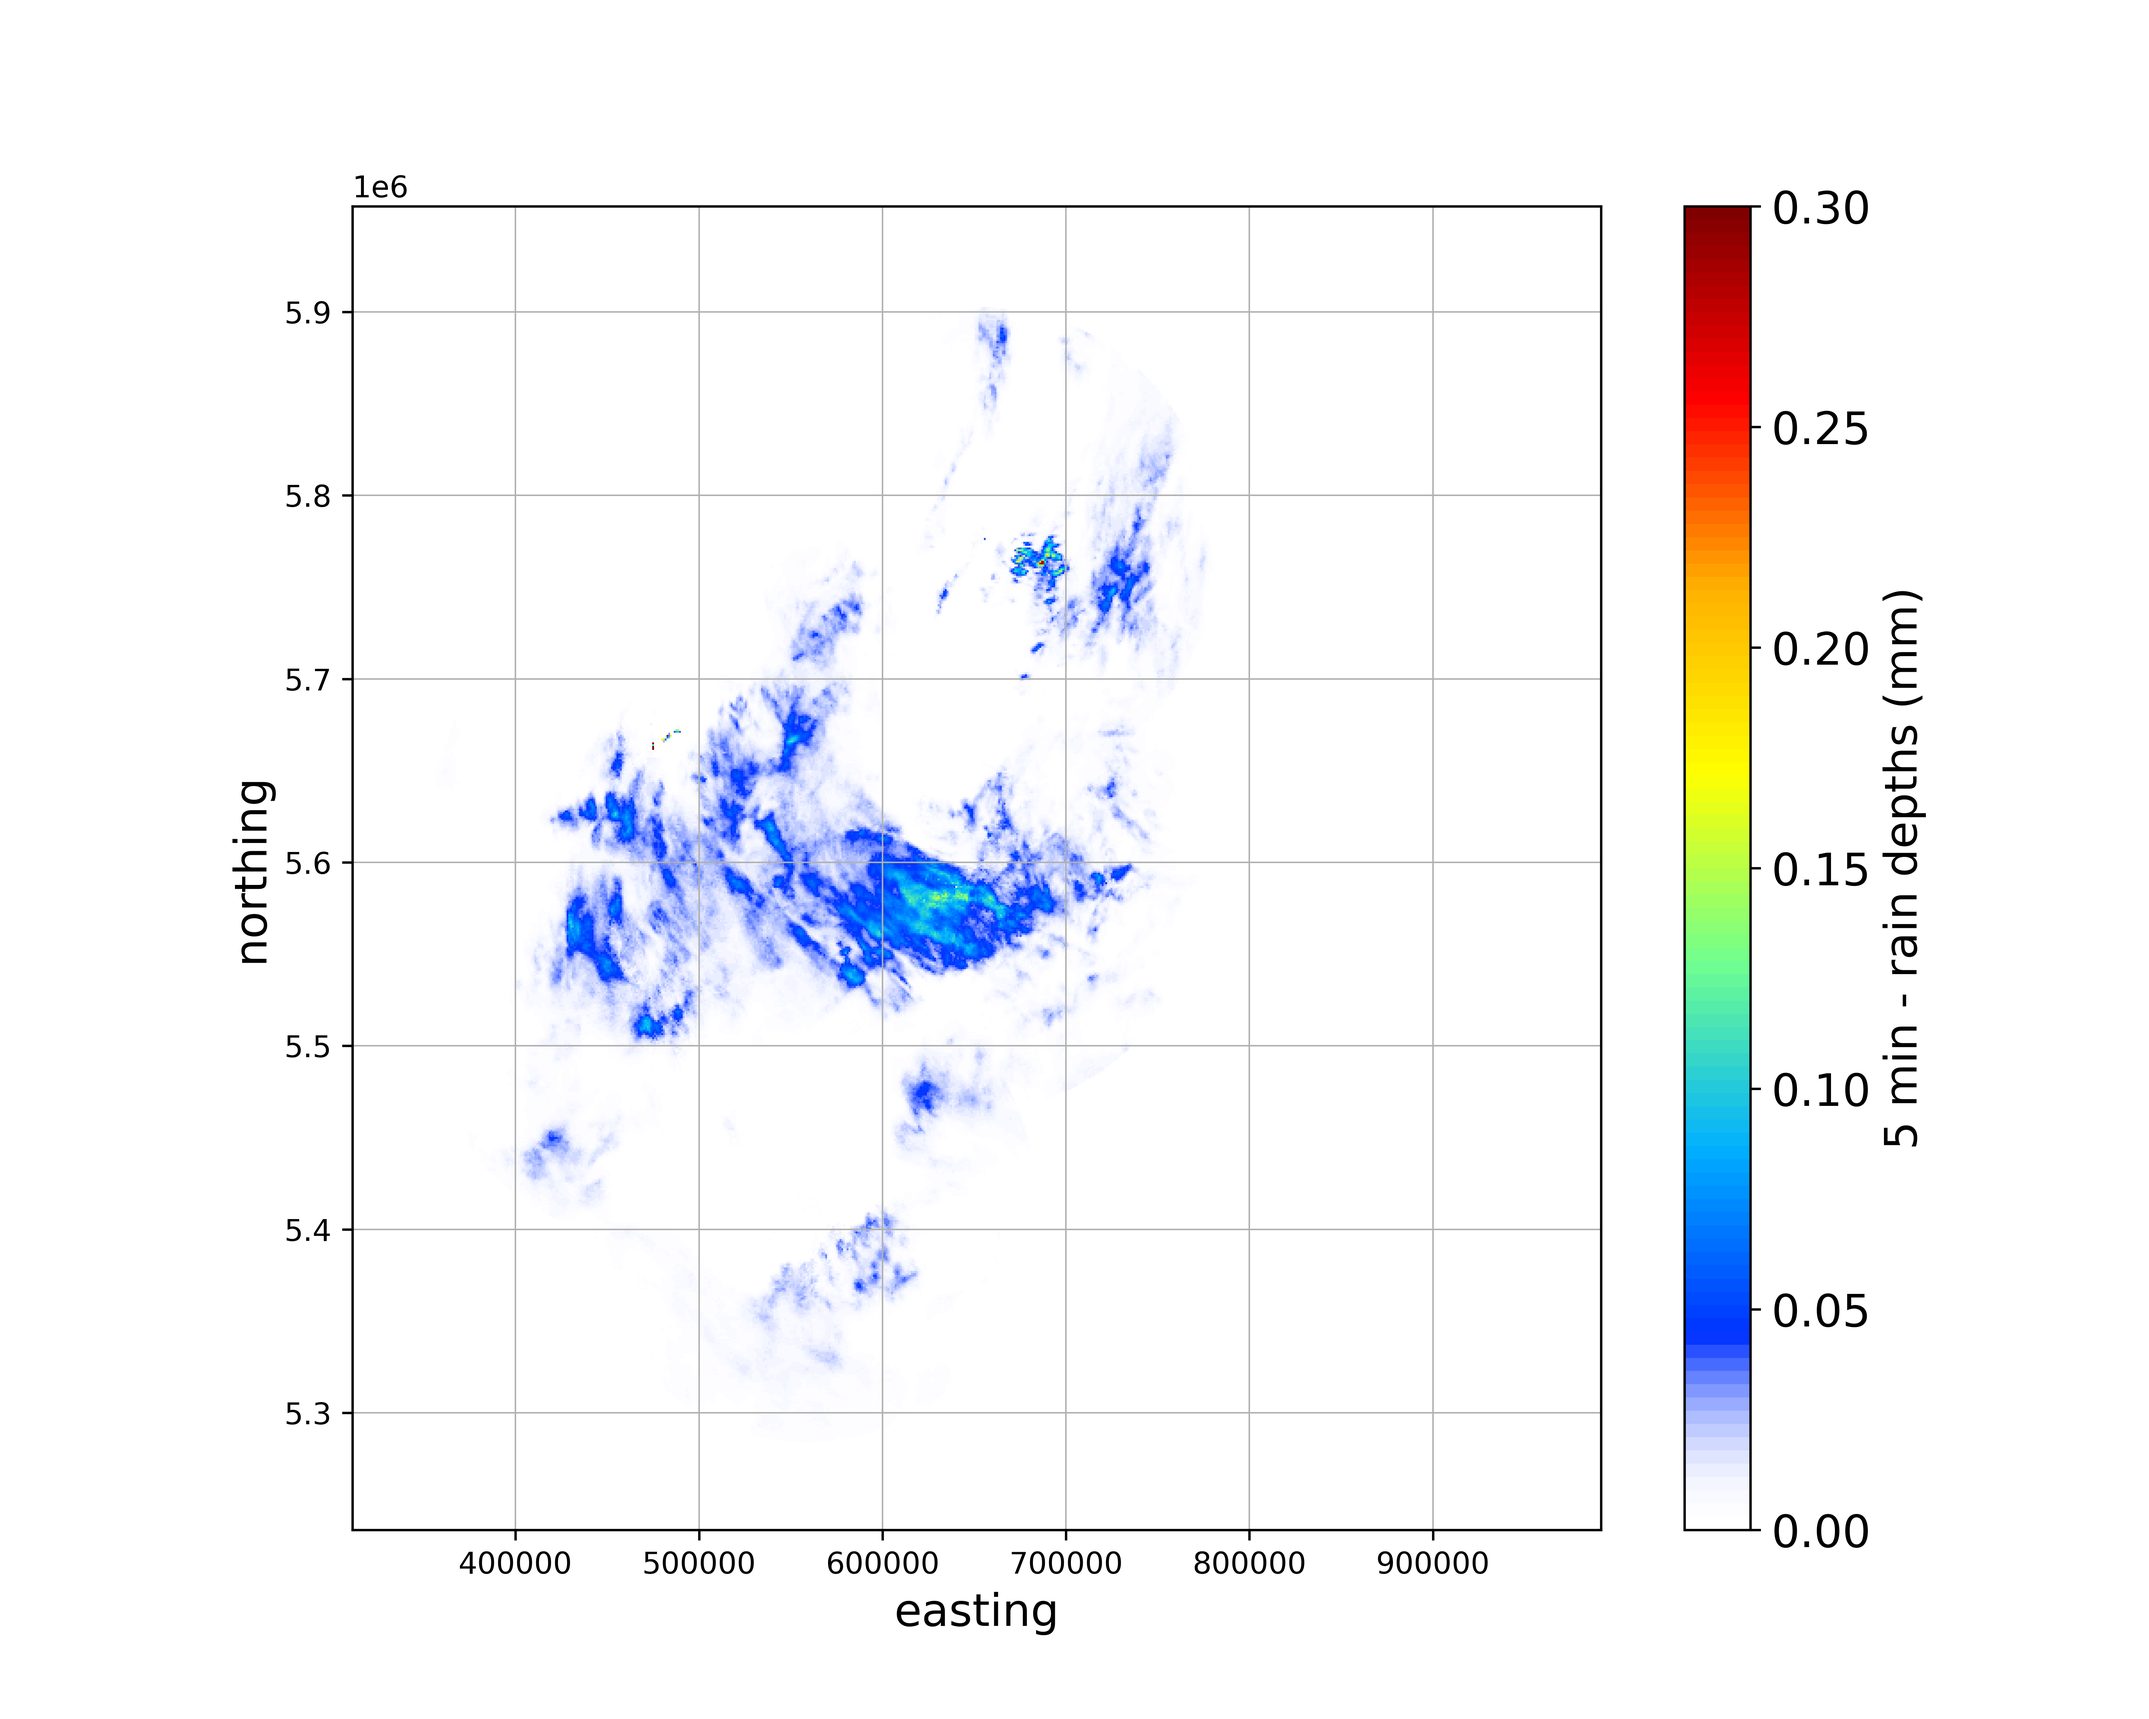
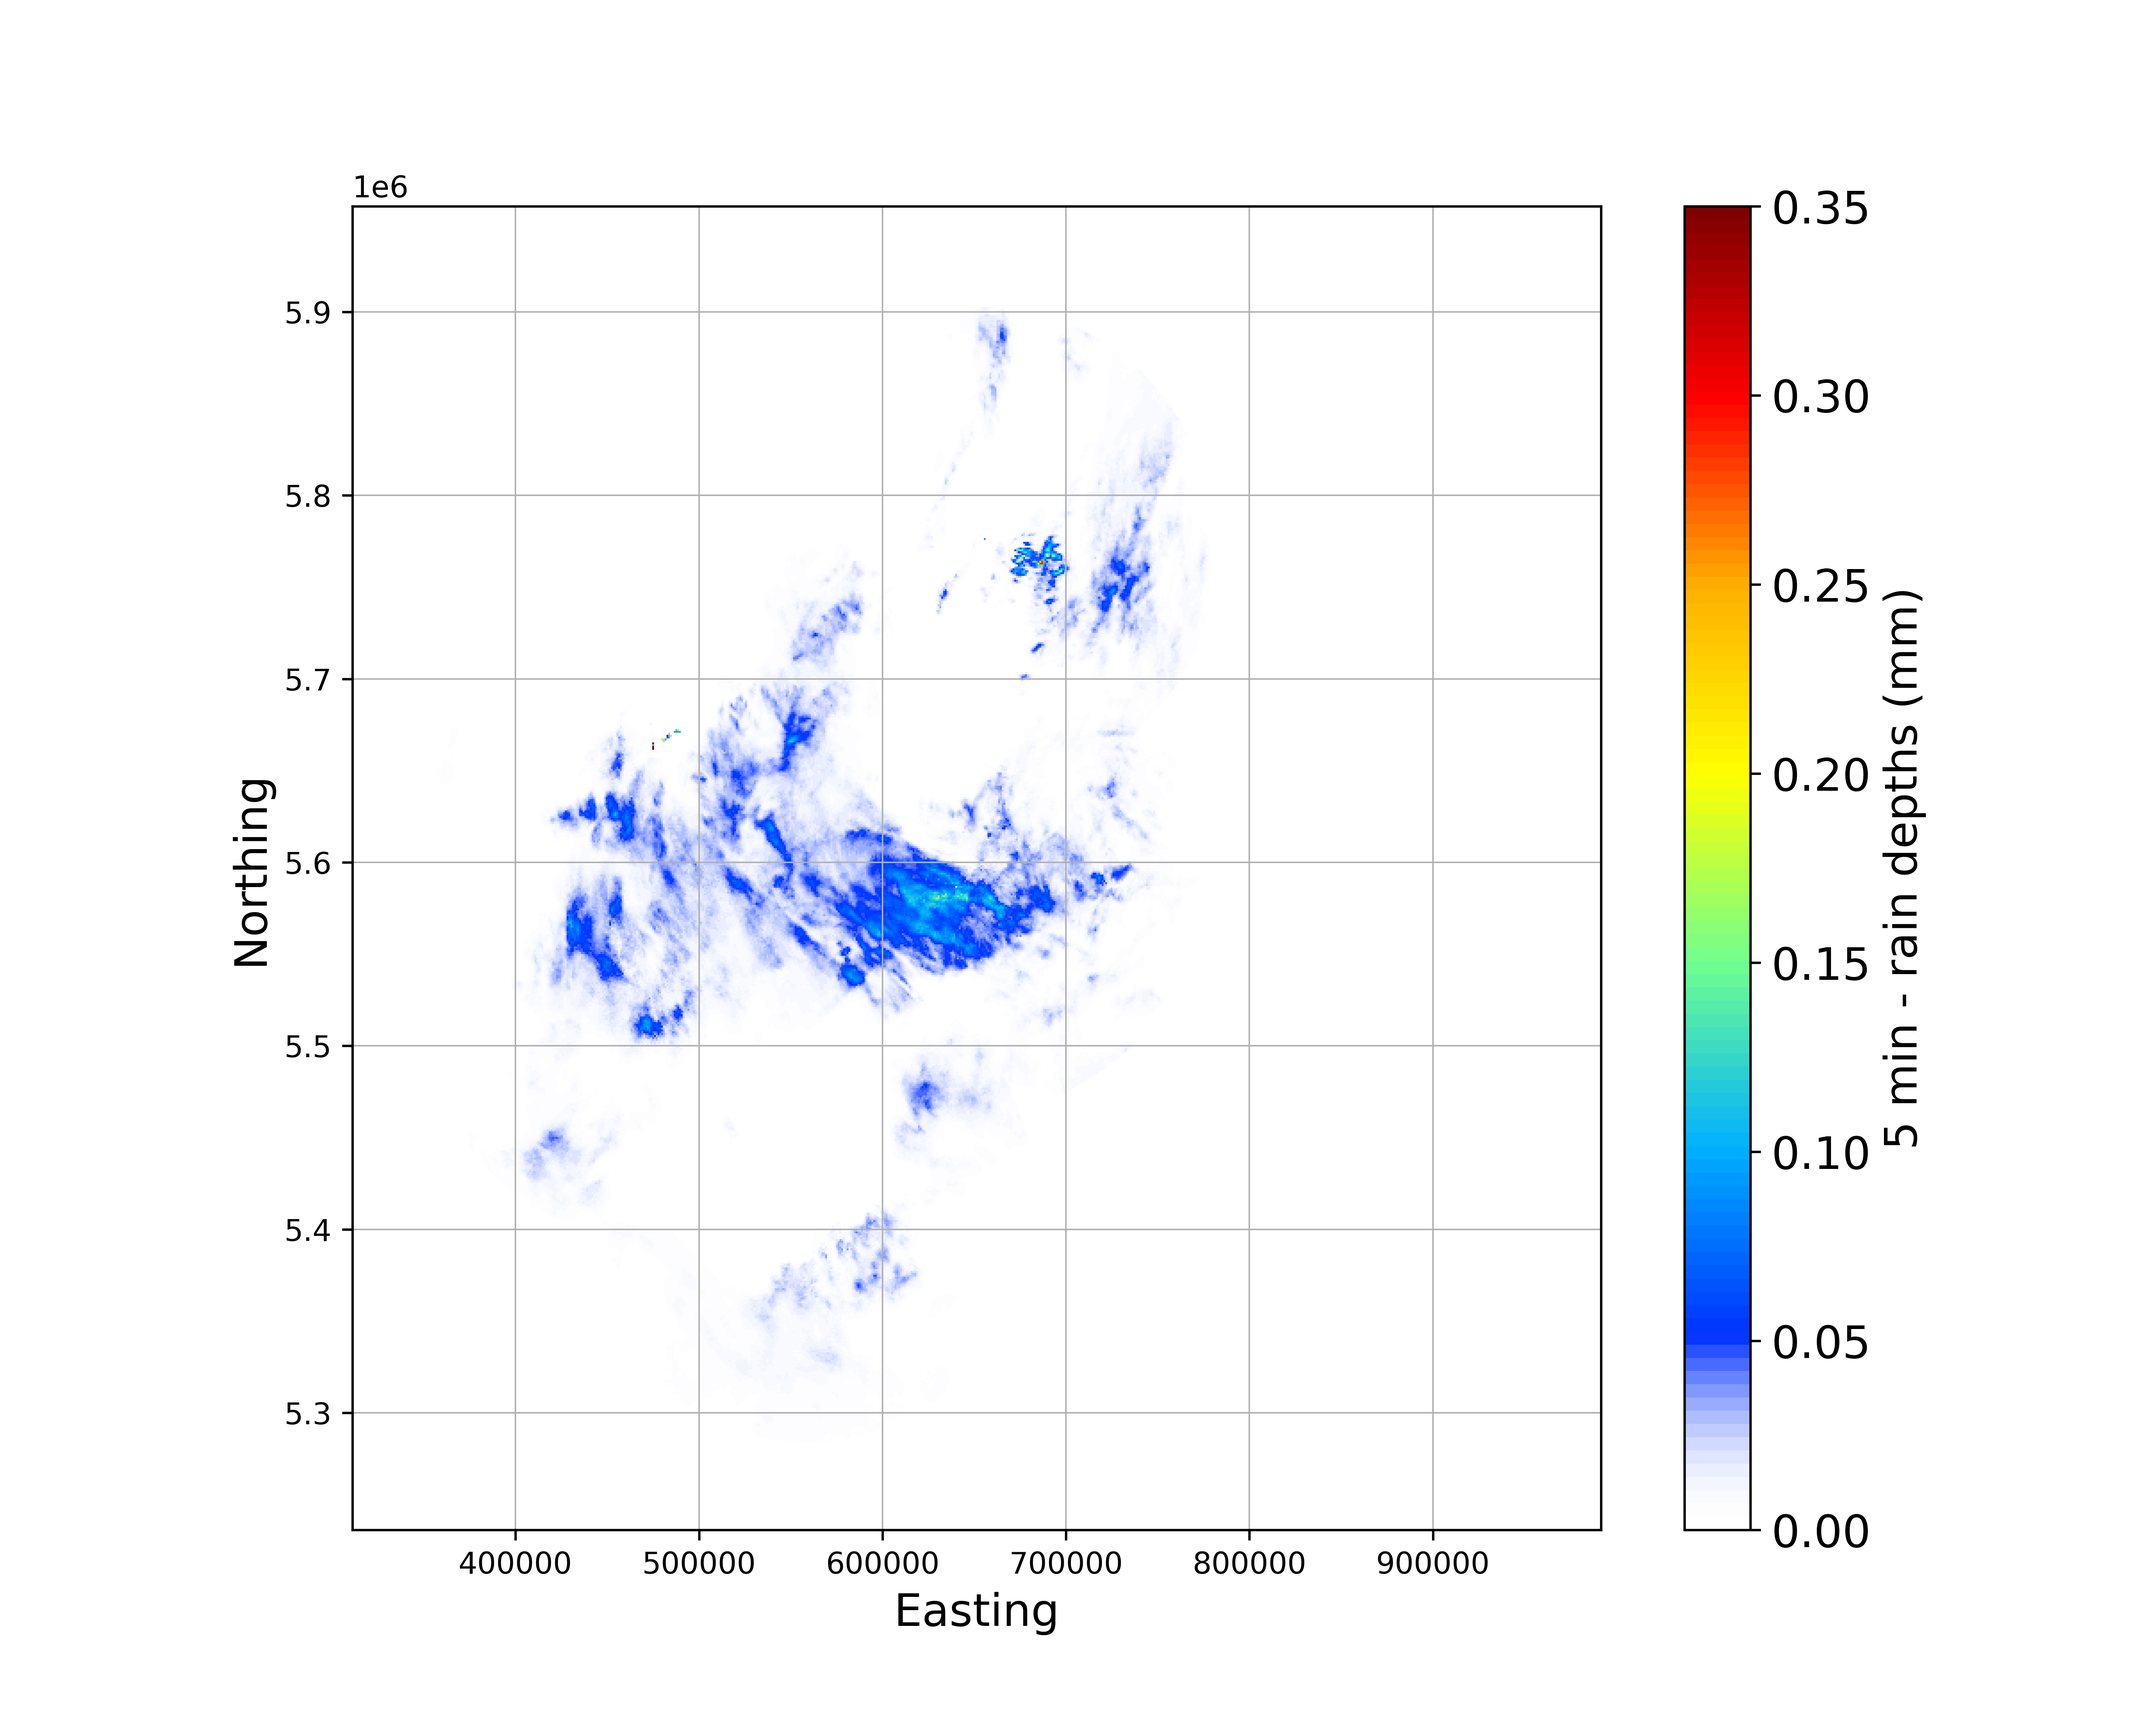
Refactoring.

diff --git a/code/example_1901091200.py b/code/example_1901091200.py
@@ -1,68 +1,77 @@
+import imp
 import sys
 import numpy as np
 import wradlib as wrl
+import matplotlib.pylab as pl
 
-from func import plot_radar, plot_raindepths, plot_gridded, clutter_gabella, attcorr, plot_attenuation_mean_bin, plot_attenuation_per_bin, rain_depths
+from colorbar import cm
+from func import plot_radar, plot_raindepths, plot_gridded, clutter_gabella, attcorr, plot_attenuation_mean_bin, plot_attenuation_per_bin, rain_depths, get_coords, get_depths, blending_radar_domains, blending_radar_domains
 
 
-# Configure filename, path, radar elevation and location
-filename = sys.argv[1]
-print(filename)
-radar_location = (float(sys.argv[2]), float(sys.argv[3]), int(sys.argv[4])) # lat, lon, height
-elevation = 0.8
+filename_drs = "raa00-dx_10488-1901091200-drs---bin"
+filename_pro = "raa00-dx_10392-1901091200-pro---bin"
+filename_umd = "raa00-dx_10356-1901091200-umd---bin"
+filename_neu = "raa00-dx_10557-1901091200-neu---bin"
+filename_eis = "raa00-dx_10780-1901091200-eis---bin"
 
-# Read data.
-f = wrl.util.get_wradlib_data_file('example_data/' + filename)
-data, md = wrl.io.read_dx(f)
+site_loc_drs = (13.769722, 51.125278, 263)
+site_loc_pro = (13.858212, 52.648667, 194)
+site_loc_umd = (11.176091, 52.160096, 185)
+site_loc_neu = (11.135034, 50.500114, 880)
+site_loc_eis = (12.402788, 49.540667, 799)
 
-# Plot raw data.
-plot_radar(data, filename, what="raw", subtitle="Raw data")
+# Calculate and plot rain depths in polar coordinates.
+depths_drs = get_depths(filename_drs)
+depths_pro = get_depths(filename_pro)
+depths_umd = get_depths(filename_umd)
+depths_neu = get_depths(filename_neu)
+depths_eis = get_depths(filename_eis)
 
-# Clutter correction.
-clmap, data_no_clutter = clutter_gabella(data, filename)
+# Project radar domains into global xyz domain.
+xgrid_drs, ygrid_drs, gridded_drs, rad = get_coords(depths_drs, site_loc_drs, np.array([0,0]))
+xgrid_eis, ygrid_eis, gridded_eis, rad = get_coords(depths_eis, site_loc_eis, np.array([-95000,-176000]))
+xgrid_pro, ygrid_pro, gridded_pro, rad = get_coords(depths_pro, site_loc_pro, np.array([6000,169000]))
+xgrid_umd, ygrid_umd, gridded_umd, rad = get_coords(depths_umd, site_loc_umd, np.array([-181000,69000]))
+xgrid_neu, ygrid_neu, gridded_neu, rad = get_coords(depths_neu, site_loc_neu, np.array([-184000,-69000]))
 
-# Attenuation correction.
-att, data_attcorr = attcorr(data_no_clutter, filename)
-plot_attenuation_per_bin(data_no_clutter, data_attcorr, filename, bin=0)
-plot_attenuation_per_bin(data_no_clutter, data_attcorr, filename, bin=90)
-plot_attenuation_per_bin(data_no_clutter, data_attcorr, filename, bin=180)
-plot_attenuation_per_bin(data_no_clutter, data_attcorr, filename, bin=270)
-plot_attenuation_mean_bin(data_no_clutter, data_attcorr, filename)
+# Plot single radar fields in UTM Zone 33N.
+plot_gridded(xgrid_drs, ygrid_drs, gridded_drs, filename_drs, "UTM Zone 33N (EPSG 25832)", proj_src=rad, proj_trg_epsgno=25832)
+plot_gridded(xgrid_eis, ygrid_eis, gridded_eis, filename_eis, "UTM Zone 33N (EPSG 25832)", proj_src=rad, proj_trg_epsgno=25832)
+plot_gridded(xgrid_pro, ygrid_pro, gridded_pro, filename_pro, "UTM Zone 33N (EPSG 25832)", proj_src=rad, proj_trg_epsgno=25832)
+plot_gridded(xgrid_umd, ygrid_umd, gridded_umd, filename_umd, "UTM Zone 33N (EPSG 25832)", proj_src=rad, proj_trg_epsgno=25832)
+plot_gridded(xgrid_neu, ygrid_neu, gridded_neu, filename_neu, "UTM Zone 33N (EPSG 25832)", proj_src=rad, proj_trg_epsgno=25832)
 
-# Calculate rain depths from reflectivity.
-depths = rain_depths(data=data_attcorr, filename=filename, duration_sec=300)
 
-# Create cartesian grid and reproject into UTM Zone 33 (EPSG-number 32633)
-ranges = np.arange(0, 128000., 1000.) # in meters
-azimuths = np.arange(0,360) # in degrees
-polargrid = np.meshgrid(ranges, azimuths)
-coords, rad = wrl.georef.polar.spherical_to_xyz(polargrid[0], polargrid[1], elevation, radar_location) # range, azimut, elevation, radar location, coords: (1,360,128,3)-array
-utm = wrl.georef.epsg_to_osr(32633)
-utm_coords = wrl.georef.reproject(coords, projection_source=rad, projection_target=utm)
-x = utm_coords[..., 0]
-y = utm_coords[..., 1]
-z = utm_coords[..., 2]
+# Blending domains. Take maximum value of two cutting domains.
+d2 = blending_radar_domains(np.zeros((700, 700)), gridded_drs)
+d3 = blending_radar_domains(d2, gridded_eis)
+d4 = blending_radar_domains(d3, gridded_pro)
+d5 = blending_radar_domains(d4, gridded_umd)
+domain_final = blending_radar_domains(d5, gridded_neu)
 
-# Create cartesian coordinates of the composite (UTM).
-xgrid = np.linspace(x.min(), x.max(), 250) # first two arguments: area of interest, third argument: resolution
-ygrid = np.linspace(y.min(), y.max(), 250)
-grid_xy = np.meshgrid(xgrid, ygrid) # 2 lists of 100 lists
-grid_xy = np.vstack((grid_xy[0].ravel(), grid_xy[1].ravel())).transpose() # (1000,2) - array -> [lat, lon] for each cell
+# Georeferencing
+xgrid, ygrid = wrl.georef.reproject(xgrid_drs, ygrid_drs, projection_source=rad, 
+                                            projection_target = wrl.georef.epsg_to_osr(25832)) # UTM Zone 33N: 25832, WGS: 4326
 
-# Save UTM grid coordinates in txt-file.
-np.savetxt("code/grid_xy.txt", grid_xy, fmt = "%.4f,%.4f")
-    
-# Create cartesian coordinates of the radar bins.
-xy=np.concatenate([x.ravel()[:,None],y.ravel()[:,None]], axis=1)
 
-# Interpolate data to composite grid.
-gridded = wrl.comp.togrid(src=xy, trg=grid_xy, 
-                          radius=128000., center=np.array([x.mean(), y.mean()]), 
-                          data=depths.ravel(), interpol=wrl.ipol.Idw) # Nearest or Idw
-gridded = np.ma.masked_invalid(gridded).reshape((len(xgrid), len(ygrid)))
+# Save grid information to files.
+np.savetxt("code/xgrid.txt", xgrid, fmt = "%.4f")
+np.savetxt("code/ygrid.txt", ygrid, fmt = "%.4f")
+np.savetxt("code/domain_final.txt", domain_final, fmt = "%.4f")
+np.savetxt("code/utmgrid.txt", np.column_stack((xgrid, ygrid)), fmt = "%.4f")
 
-# Plot gridded radar field.
-plot_gridded(xgrid, ygrid, gridded, filename, subtitle="Gridded to UTM Zone 33 (EPSG 32633)")
+# Plotting
+fig = pl.figure(figsize=(10,8))
+ax = pl.subplot(111, aspect="equal")
+pl.pcolormesh(xgrid, ygrid, domain_final, cmap=cm, vmax=0.35)
+cbar = pl.colorbar()
+cbar.ax.tick_params(labelsize=15) 
+cbar.set_label("5 min - rain depths (mm)", fontsize=15)
+pl.grid(lw=0.5)
+pl.xlabel("Easting", fontsize=15)
+pl.ylabel("Northing", fontsize=15)
+pl.savefig(f"images/composite_{filename_drs[15:25]}_utm", dpi=600)
+
 
 
 # Read gauge metadata.

diff --git a/code/func.py b/code/func.py
@@ -119,10 +119,11 @@ def rain_depths(data, filename, duration_sec=300):
     return depths
 
 
-def plot_gridded(xgrid, ygrid, gridded, filename, subtitle):
+def plot_gridded(xgrid, ygrid, gridded, filename, subtitle, proj_src, proj_trg_epsgno = 25832):
+    xgrid, ygrid = wrl.georef.reproject(xgrid, ygrid, projection_source=proj_src, projection_target = wrl.georef.epsg_to_osr(proj_trg_epsgno))
     pl.figure(figsize=(10, 8))
     ax = pl.subplot(111, aspect="equal")
-    pm = pl.pcolormesh(xgrid, ygrid, gridded, cmap=cm)
+    pm = pl.pcolormesh(xgrid, ygrid, gridded, cmap=cm, vmax=0.35)
     cbar = pl.colorbar(pm, shrink=0.75)
     cbar.ax.tick_params(labelsize=15) 
     cbar.set_label("5 min - Rain depths (mm)", fontsize=15)
@@ -132,5 +133,58 @@ def plot_gridded(xgrid, ygrid, gridded, filename, subtitle):
     pl.ylabel("Northing (m)", fontsize=15)
     site_abb, site_text, dt = metadata(filename)
     pl.title(f'{dt.strftime("%d-%m-%Y %H:%M")} UTC\n{site_text}\n{subtitle}', fontsize=17)
-    pl.savefig(f"images/radar_dx_{site_abb}_{filename[15:25]}_grid_1km.png", dpi=600)    
+    pl.savefig(f"images/radar_dx_{site_abb}_{filename[15:25]}_grid_utm.png", dpi=600)    
+    print(filename, np.nanmax(gridded))
     return 0
+
+
+def get_depths(filename):
+    """ 
+    Read data from file. Correct clutter and attenuation. Calculate and return 5min - rain depths as (360   ,128) - array.
+    """
+    f = wrl.util.get_wradlib_data_file('example_data/'+filename)
+    data, metadata = wrl.io.read_dx(f)
+    plot_radar(data, filename, "Raw data", "raw")
+    clmap, data_no_clutter = clutter_gabella(data, filename)
+    att, data_attcorr = attcorr(data_no_clutter, filename)
+    plot_attenuation_per_bin(data_no_clutter, data_attcorr, filename, 0)
+    plot_attenuation_per_bin(data_no_clutter, data_attcorr, filename, 90)
+    plot_attenuation_per_bin(data_no_clutter, data_attcorr, filename, 180)
+    plot_attenuation_per_bin(data_no_clutter, data_attcorr, filename, 270)
+    plot_attenuation_mean_bin(data_no_clutter, data_attcorr, filename)
+    depths = rain_depths(data_attcorr, filename, 300)
+    plot_raindepths(depths, filename)    
+    return depths
+
+
+def get_coords(depths, radar_loc, centerxy):
+    # Get cartesian coordinates in xyz-space.
+    elevation = 0.5 # in degree
+    azimuths = np.arange(0,360)
+    ranges = np.arange(0, 128000., 1000.)
+    polargrid = np.meshgrid(ranges, azimuths)
+    coords, rad = wrl.georef.spherical_to_xyz(polargrid[0], polargrid[1], elevation, radar_loc)
+    x = coords[..., 0]
+    y = coords[..., 1]
+    x = x + centerxy[0]
+    y = y + centerxy[1]
+    
+    # Gridding -> 2D array
+    xgrid = np.linspace(-350000,350000,700)
+    ygrid = np.linspace(-350000,350000,700)
+    grid_xy = np.meshgrid(xgrid, ygrid)
+    grid_xy = np.vstack((grid_xy[0].ravel(), grid_xy[1].ravel())).transpose()
+    xy=np.concatenate([x.ravel()[:,None],y.ravel()[:,None]], axis=1)
+    gridded = wrl.comp.togrid(src=xy, trg=grid_xy, 
+                              radius=128000., 
+                              center = centerxy,
+                              data=depths.ravel(), interpol=wrl.ipol.Idw)
+
+    # gridded = np.ma.masked_invalid(gridded).reshape((len(xgrid), len(ygrid)))
+    gridded = gridded.reshape((len(xgrid), len(ygrid)))
+    return xgrid, ygrid, gridded, rad
+
+
+def blending_radar_domains(domain, gridded_data):
+    """Change nan's to zeros. Choose element wise maximum."""
+    return np.maximum(domain, np.nan_to_num(gridded_data))
